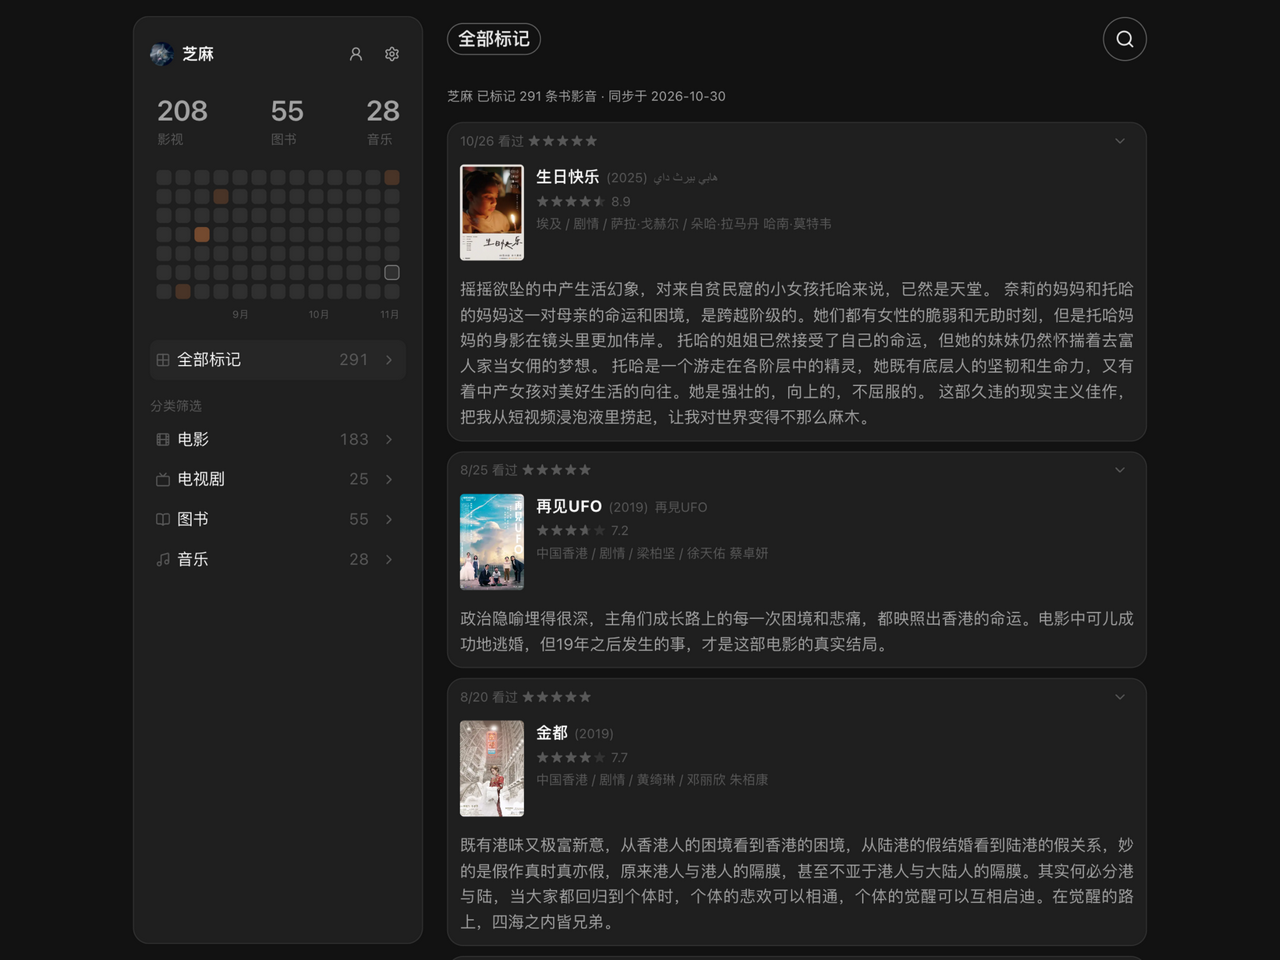
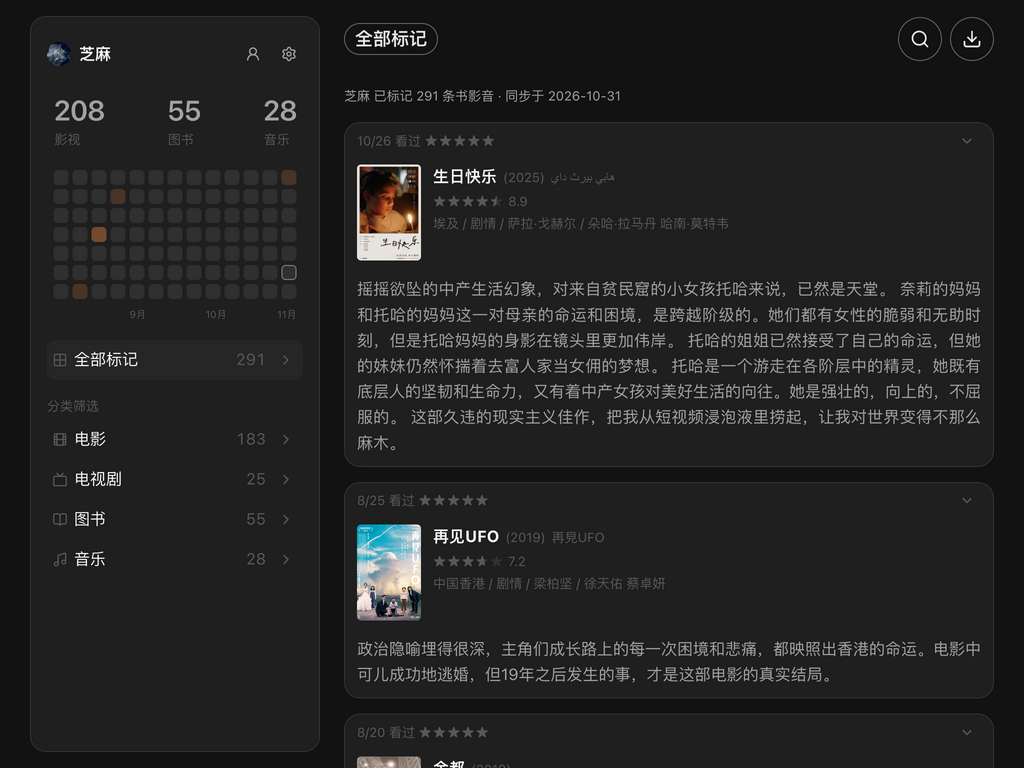
欢迎页 hero 主截图用新卡片间距重拍并缩档 1024×768：marks-overview 亮暗双图重截（承接 ffe7054 卡片列表 gap 改挂 --space-gutter 两档——截图内卡片间距已是宽屏 15px 档新节奏），窗口尺寸由 1280×960 调整为 1024×768（仍精确 4:3），welcome-page.tsx JSDoc 截图尺寸注释同步 1280×960→1024×768；welcome-page.css 无需动（__shot--hero 按宽自适应、img height:auto 原比例呈现，无硬编码尺寸）。拍摄沿用 0217d8d 先例流程：IAB 独

diff --git a/frontend/web/src/site/pages/welcome-page.tsx b/frontend/web/src/site/pages/welcome-page.tsx
@@ -175,7 +175,7 @@ const PLATFORM_LOGO = {
 /** 欢迎页（营销页）：`/` 根路径的门面。MiniSiteTemplate 无侧边栏单页壳
  *  （hero 标题区 + 全宽内容），CTA 按登录态换文案进入标记列表，主截图
  *  一张收尾。截图按当前生效主题成对提供（*-light/*-dark 各一套实拍，
- *  1280×960，4:3），经 import 引用随生产 base（/douban/）重写资源地址 */
+ *  1024×768，4:3），经 import 引用随生产 base（/douban/）重写资源地址 */
 export function WelcomePage() {
   const navigate = useNavigate()
   const { uid } = useDoubanUser()
